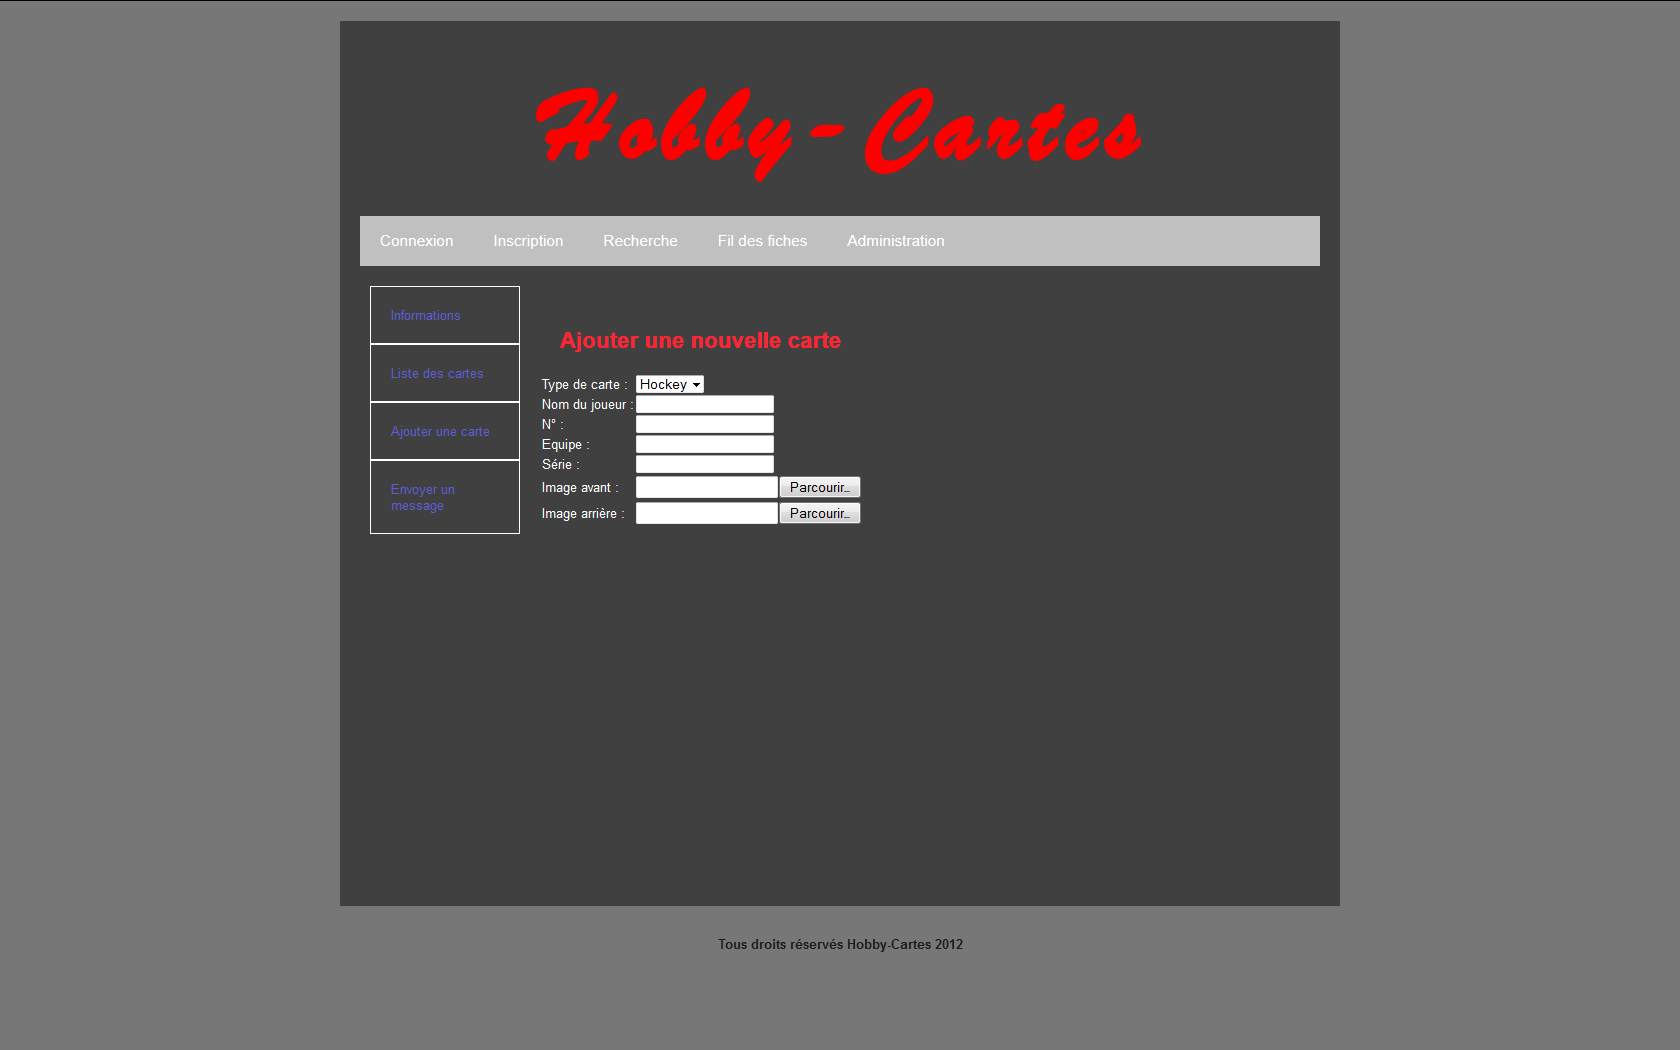
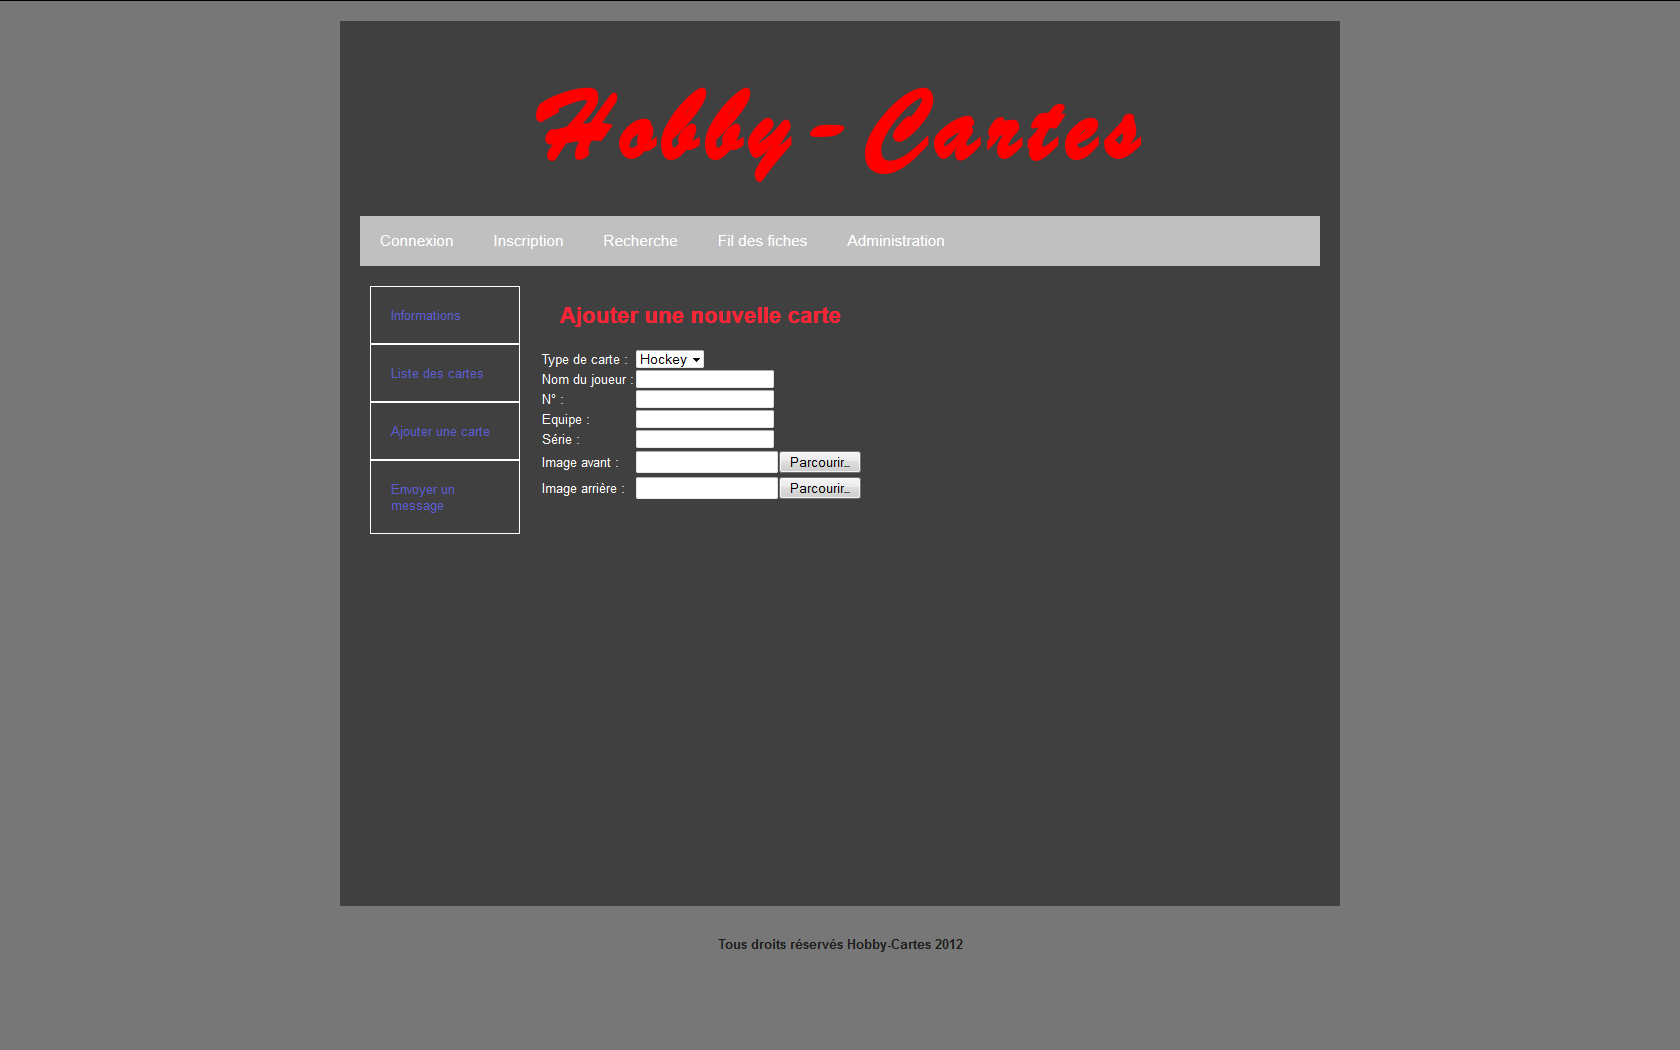
Retouche la maquette du site
Ajoute un titre a la page d'envoi de message, renomme les fichiers image
des maquettes en mieux, revoit un peu le css

Changed region(s): [[0.3095, 0.2743, 0.5262, 0.5181]]

diff --git a/contenu/HobbyCartes/HobbyCartes/App_Themes/MainTheme/recherche.css b/contenu/HobbyCartes/HobbyCartes/App_Themes/MainTheme/recherche.css
@@ -14,8 +14,6 @@
 #resultat td, #resultat th
 {
     padding : 20px;
-    padding-left : 60px;
-    padding-right : 60px;
     margin : 0px;
     border : 1px solid white;
 }
@@ -35,6 +33,16 @@
     margin : 0px;
     padding : 0px;
     clear : left;
+}
+
+#resultat .membre
+{
+    border-right : 2px solid white;
+}
+
+#resultat .fiche
+{
+    border-left : 2px solid white;
 }
 
 #resultat .membre img

diff --git a/contenu/HobbyCartes/HobbyCartes/App_Themes/MainTheme/inscription.css b/contenu/HobbyCartes/HobbyCartes/App_Themes/MainTheme/inscription.css
@@ -1,6 +1,12 @@
-#inscription table
+ #inscription table
 {
-    margin-left : 25px;
+    margin-left : auto;
+    margin-right : auto;   
+}
+
+#inscription h1
+{
+    text-align : center;   
 }
 
 #inscription td

diff --git a/contenu/HobbyCartes/HobbyCartes/App_Themes/MainTheme/membre.css b/contenu/HobbyCartes/HobbyCartes/App_Themes/MainTheme/membre.css
@@ -14,9 +14,7 @@
 
 #page_membre_contenu
 {
-   /* border : 1px solid white;*/
-    margin-left : 150px;
-    padding : 20px;
+    margin-left : 170px;
 }
 
 #page_membre_entete img
